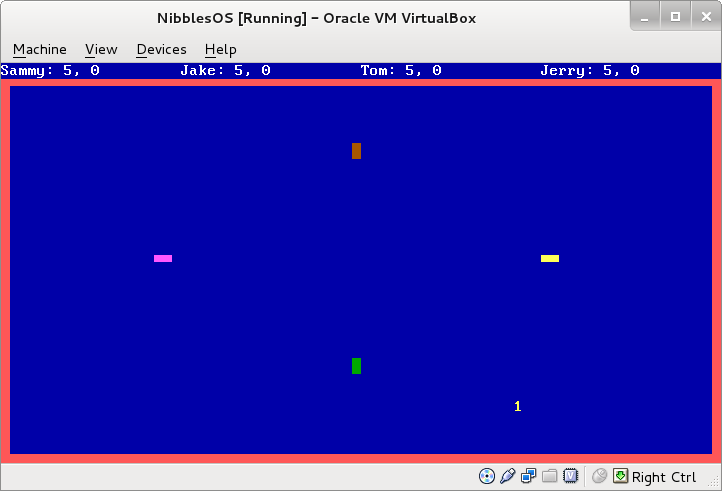
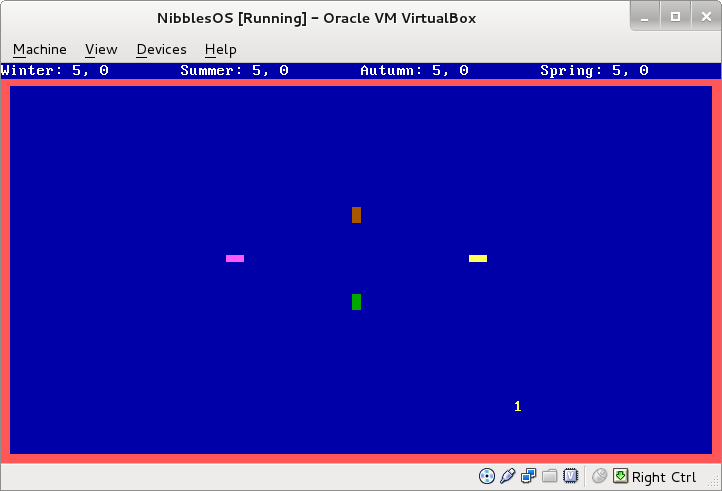
In nibbles.c, function 'prepare_level', used a for loop for level 6. Changed the names of the snakes to the seasons.

diff --git a/kernel/nibbles/nibbles.c b/kernel/nibbles/nibbles.c
@@ -42,10 +42,10 @@ static int game_over;
 void nibbles_play(void)
 {
 	/* Set snakes' names and colors. */
-	snake_init(&snakes[0], "Sammy", 0, PLAYER_1_COLOR);
-	snake_init(&snakes[1], "Jake", 1, PLAYER_2_COLOR);
-	snake_init(&snakes[2], "Tom", 2, PLAYER_3_COLOR);
-	snake_init(&snakes[3], "Jerry", 3, PLAYER_4_COLOR);
+	snake_init(&snakes[0], "Winter", 0, PLAYER_1_COLOR);
+	snake_init(&snakes[1], "Summer", 1, PLAYER_2_COLOR);
+	snake_init(&snakes[2], "Autumn", 2, PLAYER_3_COLOR);
+	snake_init(&snakes[3], "Spring", 3, PLAYER_4_COLOR);
 
 	/* Disable cursor. */
 	curs_set(0);
@@ -158,21 +158,10 @@ void prepare_level(unsigned level)
 			snakes[3].initial_y = 35; snakes[3].initial_x = 23; snakes[3].initial_dir = DIR_RIGHT;
 			break;
 		case 6:
-			mvvline(1, 9, MAKE_CHARACTER(0xdb, WALL_COLOR, BACKGROUND_COLOR), 10);
-			mvvline(1, 19, MAKE_CHARACTER(0xdb, WALL_COLOR, BACKGROUND_COLOR), 10);
-			mvvline(1, 29, MAKE_CHARACTER(0xdb, WALL_COLOR, BACKGROUND_COLOR), 10);
-			mvvline(1, 39, MAKE_CHARACTER(0xdb, WALL_COLOR, BACKGROUND_COLOR), 10);
-			mvvline(1, 49, MAKE_CHARACTER(0xdb, WALL_COLOR, BACKGROUND_COLOR), 10);
-			mvvline(1, 59, MAKE_CHARACTER(0xdb, WALL_COLOR, BACKGROUND_COLOR), 10);
-			mvvline(1, 69, MAKE_CHARACTER(0xdb, WALL_COLOR, BACKGROUND_COLOR), 10);
-
-			mvvline(15, 9, MAKE_CHARACTER(0xdb, WALL_COLOR, BACKGROUND_COLOR), 10);
-			mvvline(15, 19, MAKE_CHARACTER(0xdb, WALL_COLOR, BACKGROUND_COLOR), 10);
-			mvvline(15, 29, MAKE_CHARACTER(0xdb, WALL_COLOR, BACKGROUND_COLOR), 10);
-			mvvline(15, 39, MAKE_CHARACTER(0xdb, WALL_COLOR, BACKGROUND_COLOR), 10);
-			mvvline(15, 49, MAKE_CHARACTER(0xdb, WALL_COLOR, BACKGROUND_COLOR), 10);
-			mvvline(15, 59, MAKE_CHARACTER(0xdb, WALL_COLOR, BACKGROUND_COLOR), 10);
-			mvvline(15, 69, MAKE_CHARACTER(0xdb, WALL_COLOR, BACKGROUND_COLOR), 10);
+			for (i = 9; i <= 69; i += 10) {
+				mvvline(1, i, MAKE_CHARACTER(0xdb, WALL_COLOR, BACKGROUND_COLOR), 10);
+				mvvline(15, i, MAKE_CHARACTER(0xdb, WALL_COLOR, BACKGROUND_COLOR), 10);
+			}
 
 			snakes[0].initial_y = 7; snakes[0].initial_x = 65; snakes[0].initial_dir = DIR_DOWN;
 			snakes[1].initial_y = 43; snakes[1].initial_x = 15; snakes[1].initial_dir = DIR_UP;
